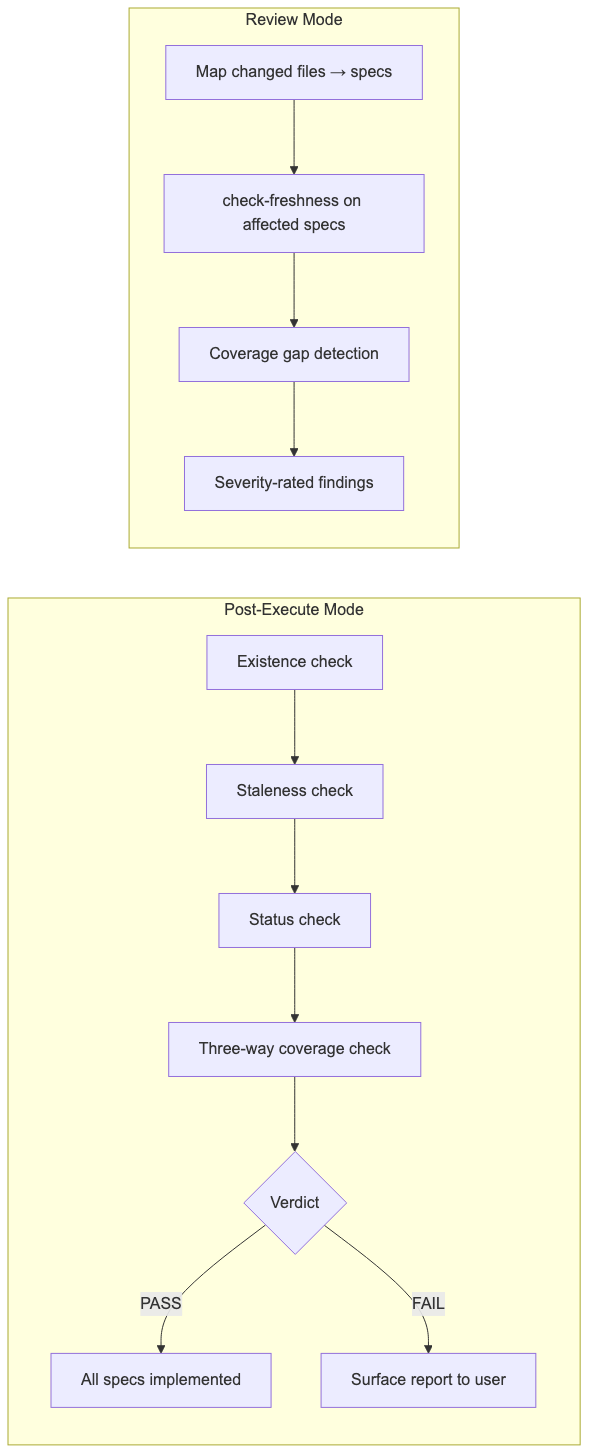
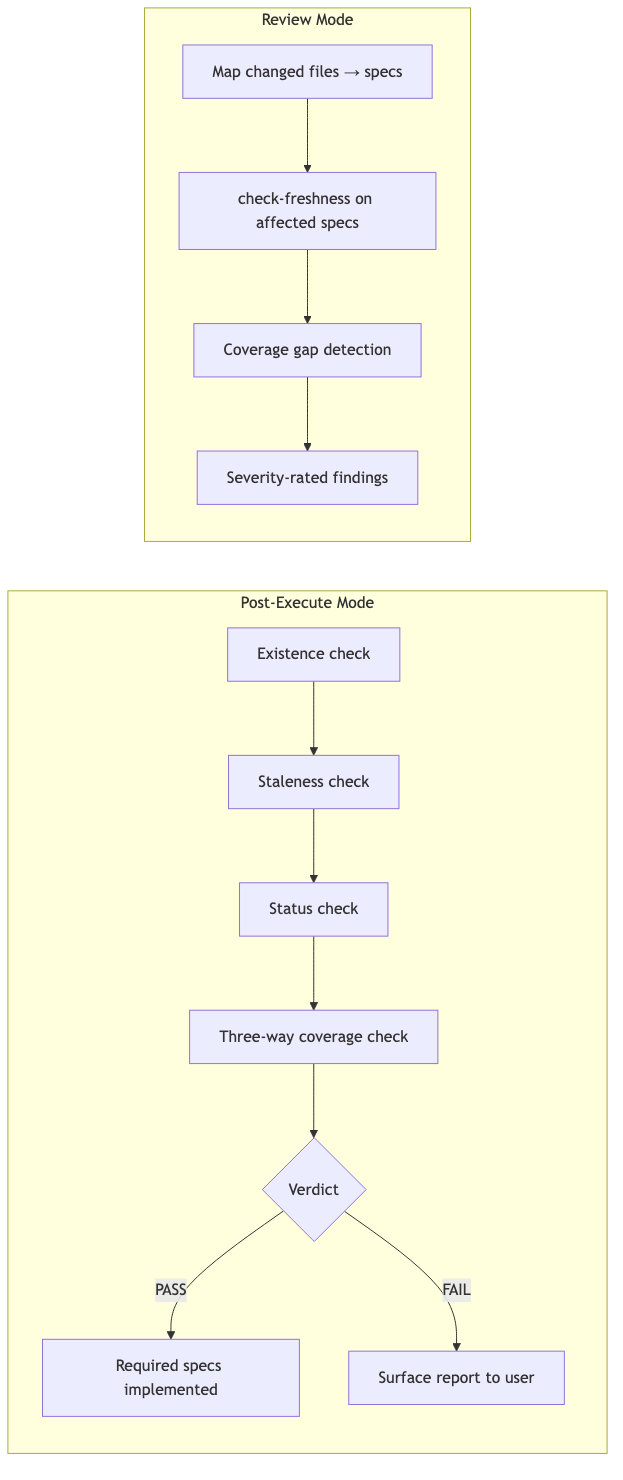
fix(specs): apply closing-pass review findings to Spec Status Model
Fixes five residuals from the final review of the Spec Status Model work
(issue #12): corrects doc-spec.md's misattribution of Status writes to
spec-verify (it is read-only), updates the P3-informational-line count
from two to three now that a held-at-In-Review suppression exists, adds
the missing monotonicity qualifier to the workflow doc's finalize
summary, corrects the release-note call-site count from eight to twelve
restatements (including the previously-omitted docs/codebase-guide.md),
and regenerates the stale spec-verify workflow diagram PNG whose PASS
node still read "All specs implemented" after the prose was corrected.

Appends 6 new assertions to scripts/test-spec-status-model.sh (46 -> 52),
all passing.

Changed region(s): [[0.0, 0.0, 1.0, 1.0]]

diff --git a/RELEASE-NOTES.md b/RELEASE-NOTES.md
@@ -5,7 +5,7 @@
 Replaces `spec-inject`'s unconditional spec `Status` writes with a canonical, guarded, scope-aware transition model that every spec action cites. Adds an optional `:target` / `:constraint` role suffix to `--specs`, and sanctions `Active` and `Deprecated` in the spec template vocabulary. Backward compatible — unsuffixed `--specs` paths keep working.
 
 ### Fixes
-- **`spec-inject --phase=plan` wrote spec `Status` unconditionally, regressing `Implemented` specs and falsely advancing untouched ones** (`references/spec-lifecycle-actions.md`) — The per-chunk injected task said "Update SPEC-{CAT}-NNN `Status` from `Draft` to `In Review`" with no read of the current status, so applying it to a spec already at `Implemented` drove it backward, falsely signalling that shipped, verified behaviour was unproven. The finalize task said "Update every governing spec's `Status` to `Implemented`" with no check that the plan touched that spec's surface, so a spec passed as a read-only constraint reference — a backend field allowlist the client work must respect but not implement — was marked `Implemented`, asserting work that was never written. Both failures were silent. Both contradicted contracts stated elsewhere in the same file: the execute phase asserts a monotonic ladder, and `spec-verify` explicitly treats "the plan didn't cover that spec's scope" as a legitimate reason a spec is not `Implemented` — a check the finalize step made vacuously pass by running before it. Root cause was structural: transition rules were restated independently at eight call sites — four in `spec-lifecycle-actions.md`, one assumed by `spec-verify`, one in `references/agent-prompt-template.md` (marked REQUIRED for dispatched review agents), and two more in `docs/workflows/doc-superpowers.md` and `docs/conventions.md` — and had drifted apart. Fix: a single canonical **Spec Status Model** section defines the ladder (`Draft` → `In Review` → `Approved` → `Implemented`), an **open-world** exempt class (`Active`, `Deprecated`, `Superseded`, and any status not on the ladder), four rules (read-before-write, monotonic, exempt, scope-gated), target vs. constraint spec roles, and a fixed evaluation order; all eight call sites now cite it instead of restating it. `spec-verify` also gains two non-blocking P3 informational lines — specs treated as constraint by *inference* rather than an explicit marker, and specs at unrecognized statuses — so the new write-suppressions do not become new silences. The exemption is deliberately open-world so a status added later cannot fall back to the unconditional write. Failure mode 1 had been independently observed twice, ~2 months apart, at v2.12.0 and v2.12.3; the documented downstream workaround was to skip `spec-inject --phase=plan` entirely on mature specs. New suite `scripts/test-spec-status-model.sh` (46 assertions) pins the wording across `references/`, `evals/`, and the restating `docs/` pages so the phrasing cannot silently return. Closes #12.
+- **`spec-inject --phase=plan` wrote spec `Status` unconditionally, regressing `Implemented` specs and falsely advancing untouched ones** (`references/spec-lifecycle-actions.md`) — The per-chunk injected task said "Update SPEC-{CAT}-NNN `Status` from `Draft` to `In Review`" with no read of the current status, so applying it to a spec already at `Implemented` drove it backward, falsely signalling that shipped, verified behaviour was unproven. The finalize task said "Update every governing spec's `Status` to `Implemented`" with no check that the plan touched that spec's surface, so a spec passed as a read-only constraint reference — a backend field allowlist the client work must respect but not implement — was marked `Implemented`, asserting work that was never written. Both failures were silent. Both contradicted contracts stated elsewhere in the same file: the execute phase asserts a monotonic ladder, and `spec-verify` explicitly treats "the plan didn't cover that spec's scope" as a legitimate reason a spec is not `Implemented` — a check the finalize step made vacuously pass by running before it. Root cause was structural: transition rules were restated independently at twelve call sites — four in `spec-lifecycle-actions.md`, one assumed by `spec-verify`, one in `references/agent-prompt-template.md` (marked REQUIRED for dispatched review agents), four in `docs/workflows/doc-superpowers.md`, one in `docs/conventions.md`, and one in `docs/codebase-guide.md` — and had drifted apart. Fix: a single canonical **Spec Status Model** section defines the ladder (`Draft` → `In Review` → `Approved` → `Implemented`), an **open-world** exempt class (`Active`, `Deprecated`, `Superseded`, and any status not on the ladder), four rules (read-before-write, monotonic, exempt, scope-gated), target vs. constraint spec roles, and a fixed evaluation order; all twelve call sites now cite it instead of restating it. `spec-verify` also gains two non-blocking P3 informational lines — specs treated as constraint by *inference* rather than an explicit marker, and specs at unrecognized statuses — so the new write-suppressions do not become new silences. The exemption is deliberately open-world so a status added later cannot fall back to the unconditional write. Failure mode 1 had been independently observed twice, ~2 months apart, at v2.12.0 and v2.12.3; the documented downstream workaround was to skip `spec-inject --phase=plan` entirely on mature specs. New suite `scripts/test-spec-status-model.sh` (52 assertions) pins the wording across `references/`, `evals/`, and the restating `docs/` pages so the phrasing cannot silently return. Closes #12.
 - **`evals/evals.json` asserted the defect** (`evals/evals.json`) — Eval 10's `injects-finalization-task` assertion read "Last chunk includes a spec finalization task to set all specs to Implemented", so a correct implementation would have failed it. Rewritten to describe scope-gated finalization. New eval 13 (`spec-inject-plan-mixed-statuses`) reproduces issue #12 directly with four governing specs at `Implemented` / `In Review` / `In Review`-as-constraint / `Active`.
 
 ### Features

diff --git a/references/spec-lifecycle-actions.md b/references/spec-lifecycle-actions.md
@@ -230,9 +230,10 @@ Two modes: **post-execute** (final compliance check before merging) and **review
    - **target** at an exempt status (`Active`, `Deprecated`, `Superseded`, …) → **not a finding**. `Active` reference specs are continuously evolving and never reach `Implemented` by design.
    - **constraint** → **not a finding** at any status. The work was never expected to advance it.
 
-   Then emit two **P3 informational** lines. These are never findings and never cause a FAIL — they exist because the two suppressions above are otherwise silent in the failing direction:
+   Then emit three **P3 informational** lines. These are never findings and never cause a FAIL — they exist because the suppressions above are otherwise silent in the failing direction:
    - **Inferred constraints** — list specs treated as constraint references *by inference* rather than by an explicit `:constraint` marker: "N spec(s) treated as constraint references by inference — pass `:constraint` to confirm, or fix their `code_refs` if they were meant to be implementation targets." Role inference is circular: wrong `code_refs` produce a constraint verdict, the constraint branch skips the `code_refs` refinement step, so the `code_refs` stay wrong and the spec silently never advances. Specs marked `:constraint` explicitly are not listed — the caller already said so.
    - **Unrecognized statuses** — list specs at an unrecognized status, i.e. one outside the documented vocabulary (a typo such as `Implemenetd`, or a value from a downstream vocabulary): "N spec(s) at an unrecognized status — automation will never transition these." R3 correctly declines to write them; reporting them is what keeps them from being invisible forever.
+   - **Held at `In Review`** — list partially-covered targets held by design: "N spec(s) held at `In Review` by design — remaining scope recorded in Implementation Notes." Without this line a deliberate hold is indistinguishable from a skipped task in the report, which is the ambiguity the recorded scope exists to resolve.
 4. **Coverage check** — Five-way alignment across five artifact relationships:
 
    **Design doc → Specs:** Parse the design doc's major sections (identified by `##` headings that describe system behavior or architecture). For each section, check whether a governing spec exists whose `Source` field points to this design doc AND whose category and content correspond to that section's domain. Missing correspondence = "design intent without formal spec."
@@ -249,7 +250,7 @@ Two modes: **post-execute** (final compliance check before merging) and **review
    - **PASS:** Every spec required to be `Implemented` by the Status check (step 3) is `Implemented` AND no unresolved deviations AND no "design intent without formal spec" findings AND CLAUDE.md and README.md are current
    - **FAIL:** Any spec required to be `Implemented` by the Status check (step 3) is not, OR any unresolved deviation, OR any "design intent without formal spec" finding, OR CLAUDE.md/README.md staleness detected
 
-   Specs the Status check exempts — constraint references, and specs at `Active` / `Deprecated` / `Superseded` — never contribute to a FAIL verdict. Neither do the two P3 informational lines.
+   Specs the Status check exempts — constraint references, targets held at `In Review` with recorded remaining scope, and specs at `Active` / `Deprecated` / `Superseded` — never contribute to a FAIL verdict. Neither do the three P3 informational lines.
 
    **Recovery:** update per `references/doc-spec.md` CLAUDE.md / README.md update rules, then re-run `spec-verify`.
 

diff --git a/docs/workflows/doc-superpowers.md b/docs/workflows/doc-superpowers.md
@@ -509,7 +509,7 @@ Two modes: **plan phase** (inject spec maintenance tasks into implementation pla
 
 1. Read the plan document and identify chunk boundaries (`## Chunk N:` or `### Task N:` headings)
 2. For each chunk, append a spec update task (update status, verify Implementation Notes, refine `code_refs`, run `update-index`)
-3. In the last chunk, also append a spec finalization task (advance only scope-covered target specs to `Implemented`, hold partially-covered ones at `In Review`, leave constraint references and exempt statuses untouched, fill Implementation Notes, final index update)
+3. In the last chunk, also append a spec finalization task (advance only scope-covered target specs to `Implemented`, hold partially-covered ones at `In Review` (never writing over a later status), leave constraint references and exempt statuses untouched, fill Implementation Notes, final index update)
 4. Output modified plan document
 
 ### Execute Phase
@@ -613,7 +613,7 @@ flowchart LR
     B --> C["Status check"]
     C --> D["Three-way coverage check"]
     D --> E{Verdict}
-    E -->|PASS| F["All specs implemented"]
+    E -->|PASS| F["Required specs implemented"]
     E -->|FAIL| G["Surface report to user"]
   end
   subgraph RM["Review Mode"]

diff --git a/references/doc-spec.md b/references/doc-spec.md
@@ -212,7 +212,7 @@ Template for new specs. Copy to create `SPEC-{CAT}-NNN-{slug}.md`.
 <!-- Unresolved questions (remove when resolved) -->
 ```
 
-`Draft`, `In Review`, `Approved`, and `Implemented` form the ladder that `spec-inject` and `spec-verify` transition automatically. `Active` (continuously-evolving reference specs), `Deprecated`, and `Superseded` sit outside that ladder and are never transitioned by automation. See **Spec Status Model** in `references/spec-lifecycle-actions.md`.
+`Draft`, `In Review`, `Approved`, and `Implemented` form the ladder that `spec-inject` transitions automatically (`spec-verify` is read-only — it reports on `Status` and never writes it). `Active` (continuously-evolving reference specs), `Deprecated`, and `Superseded` sit outside that ladder and are never transitioned by automation. See **Spec Status Model** in `references/spec-lifecycle-actions.md`.
 
 ---
 
